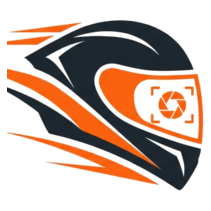
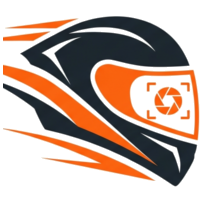
ui: el casco llena el chip de la marca
El recorte nuevo se servia bien (211x211 verificado contra el dev
server), pero con margen del 4% y chip de 32px al 92% el casco media
~27px y se veia igual de pequeno. Ahora: margen 2%, chip de 38px y
fondo al 104% para que el casco llene el chip; icono y favicon con
?v=3 para romper cache.

diff --git a/frontend/src/components/buttons/SiteHeader.css b/frontend/src/components/buttons/SiteHeader.css
@@ -32,11 +32,11 @@
   display: flex;
   align-items: center;
   justify-content: center;
-  width: 32px;
-  height: 32px;
+  width: 38px;
+  height: 38px;
   background-color: #ffffff;
-  background-image: url('/motopreview_icono.png?v=2');
-  background-size: 92%;
+  background-image: url('/motopreview_icono.png?v=3');
+  background-size: 104%;
   background-position: center;
   background-repeat: no-repeat;
   border-radius: var(--radius-nav);

diff --git a/frontend/src/components/forms/Footer.css b/frontend/src/components/forms/Footer.css
@@ -35,11 +35,11 @@
   display: flex;
   align-items: center;
   justify-content: center;
-  width: 32px;
-  height: 32px;
+  width: 38px;
+  height: 38px;
   background-color: #ffffff;
-  background-image: url('/motopreview_icono.png?v=2');
-  background-size: 92%;
+  background-image: url('/motopreview_icono.png?v=3');
+  background-size: 104%;
   background-position: center;
   background-repeat: no-repeat;
   border-radius: var(--radius-nav);

diff --git a/frontend/src/layouts/AdminLayout.css b/frontend/src/layouts/AdminLayout.css
@@ -38,11 +38,11 @@
   display: flex;
   align-items: center;
   justify-content: center;
-  width: 32px;
-  height: 32px;
+  width: 38px;
+  height: 38px;
   background-color: #ffffff;
-  background-image: url('/motopreview_icono.png?v=2');
-  background-size: 92%;
+  background-image: url('/motopreview_icono.png?v=3');
+  background-size: 104%;
   background-position: center;
   background-repeat: no-repeat;
   border-radius: var(--radius-nav);

diff --git a/frontend/src/pages/auth/Auth.css b/frontend/src/pages/auth/Auth.css
@@ -41,11 +41,11 @@
   display: flex;
   align-items: center;
   justify-content: center;
-  width: 32px;
-  height: 32px;
+  width: 38px;
+  height: 38px;
   background-color: #ffffff;
-  background-image: url('/motopreview_icono.png?v=2');
-  background-size: 92%;
+  background-image: url('/motopreview_icono.png?v=3');
+  background-size: 104%;
   background-position: center;
   background-repeat: no-repeat;
   border-radius: var(--radius-nav);

diff --git a/frontend/index.html b/frontend/index.html
@@ -2,7 +2,7 @@
 <html lang="es">
   <head>
     <meta charset="UTF-8" />
-    <link rel="icon" type="image/png" href="/favicon.png?v=2" />
+    <link rel="icon" type="image/png" href="/favicon.png?v=3" />
     <meta name="viewport" content="width=device-width, initial-scale=1.0" />
     <title>MotoPreview</title>
     <link rel="preconnect" href="https://fonts.googleapis.com">

diff --git a/backend/scripts/recortar_icono.py b/backend/scripts/recortar_icono.py
@@ -37,9 +37,9 @@ print("Bounding box del casco dentro de la zona:", caja)
 casco = zona.crop(caja)
 print("Casco:", casco.size)
 
-# Cuadrado con margen del 4% por lado
+# Cuadrado con margen del 2% por lado (ceñido: el casco llena el chip)
 lado = max(casco.size)
-margen = int(lado * 0.04)
+margen = int(lado * 0.02)
 lienzo_lado = lado + margen * 2
 icono = Image.new("RGBA", (lienzo_lado, lienzo_lado), (0, 0, 0, 0))
 icono.paste(casco, ((lienzo_lado - casco.size[0]) // 2, (lienzo_lado - casco.size[1]) // 2), casco)
